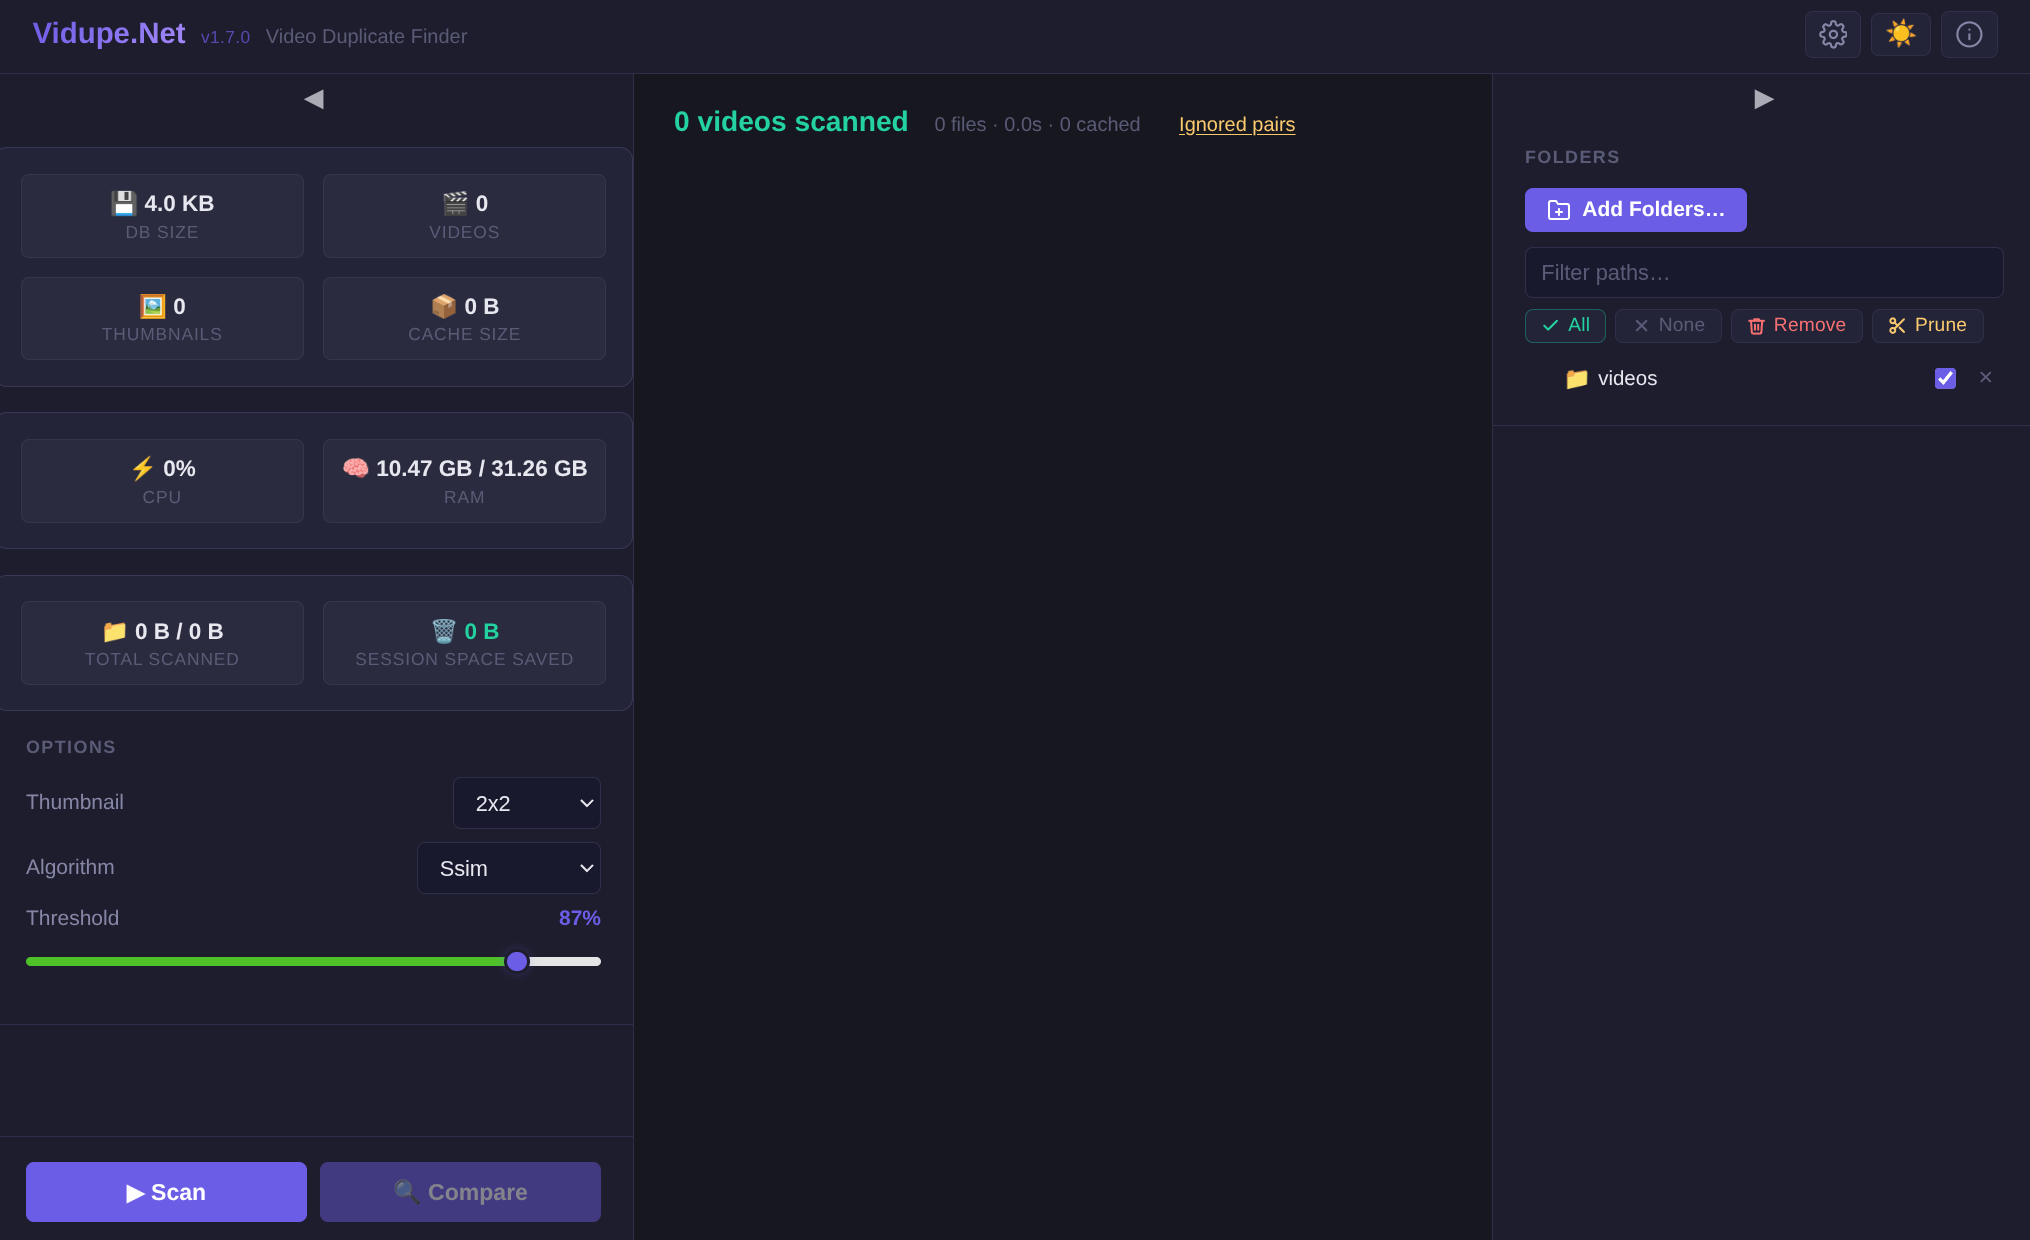
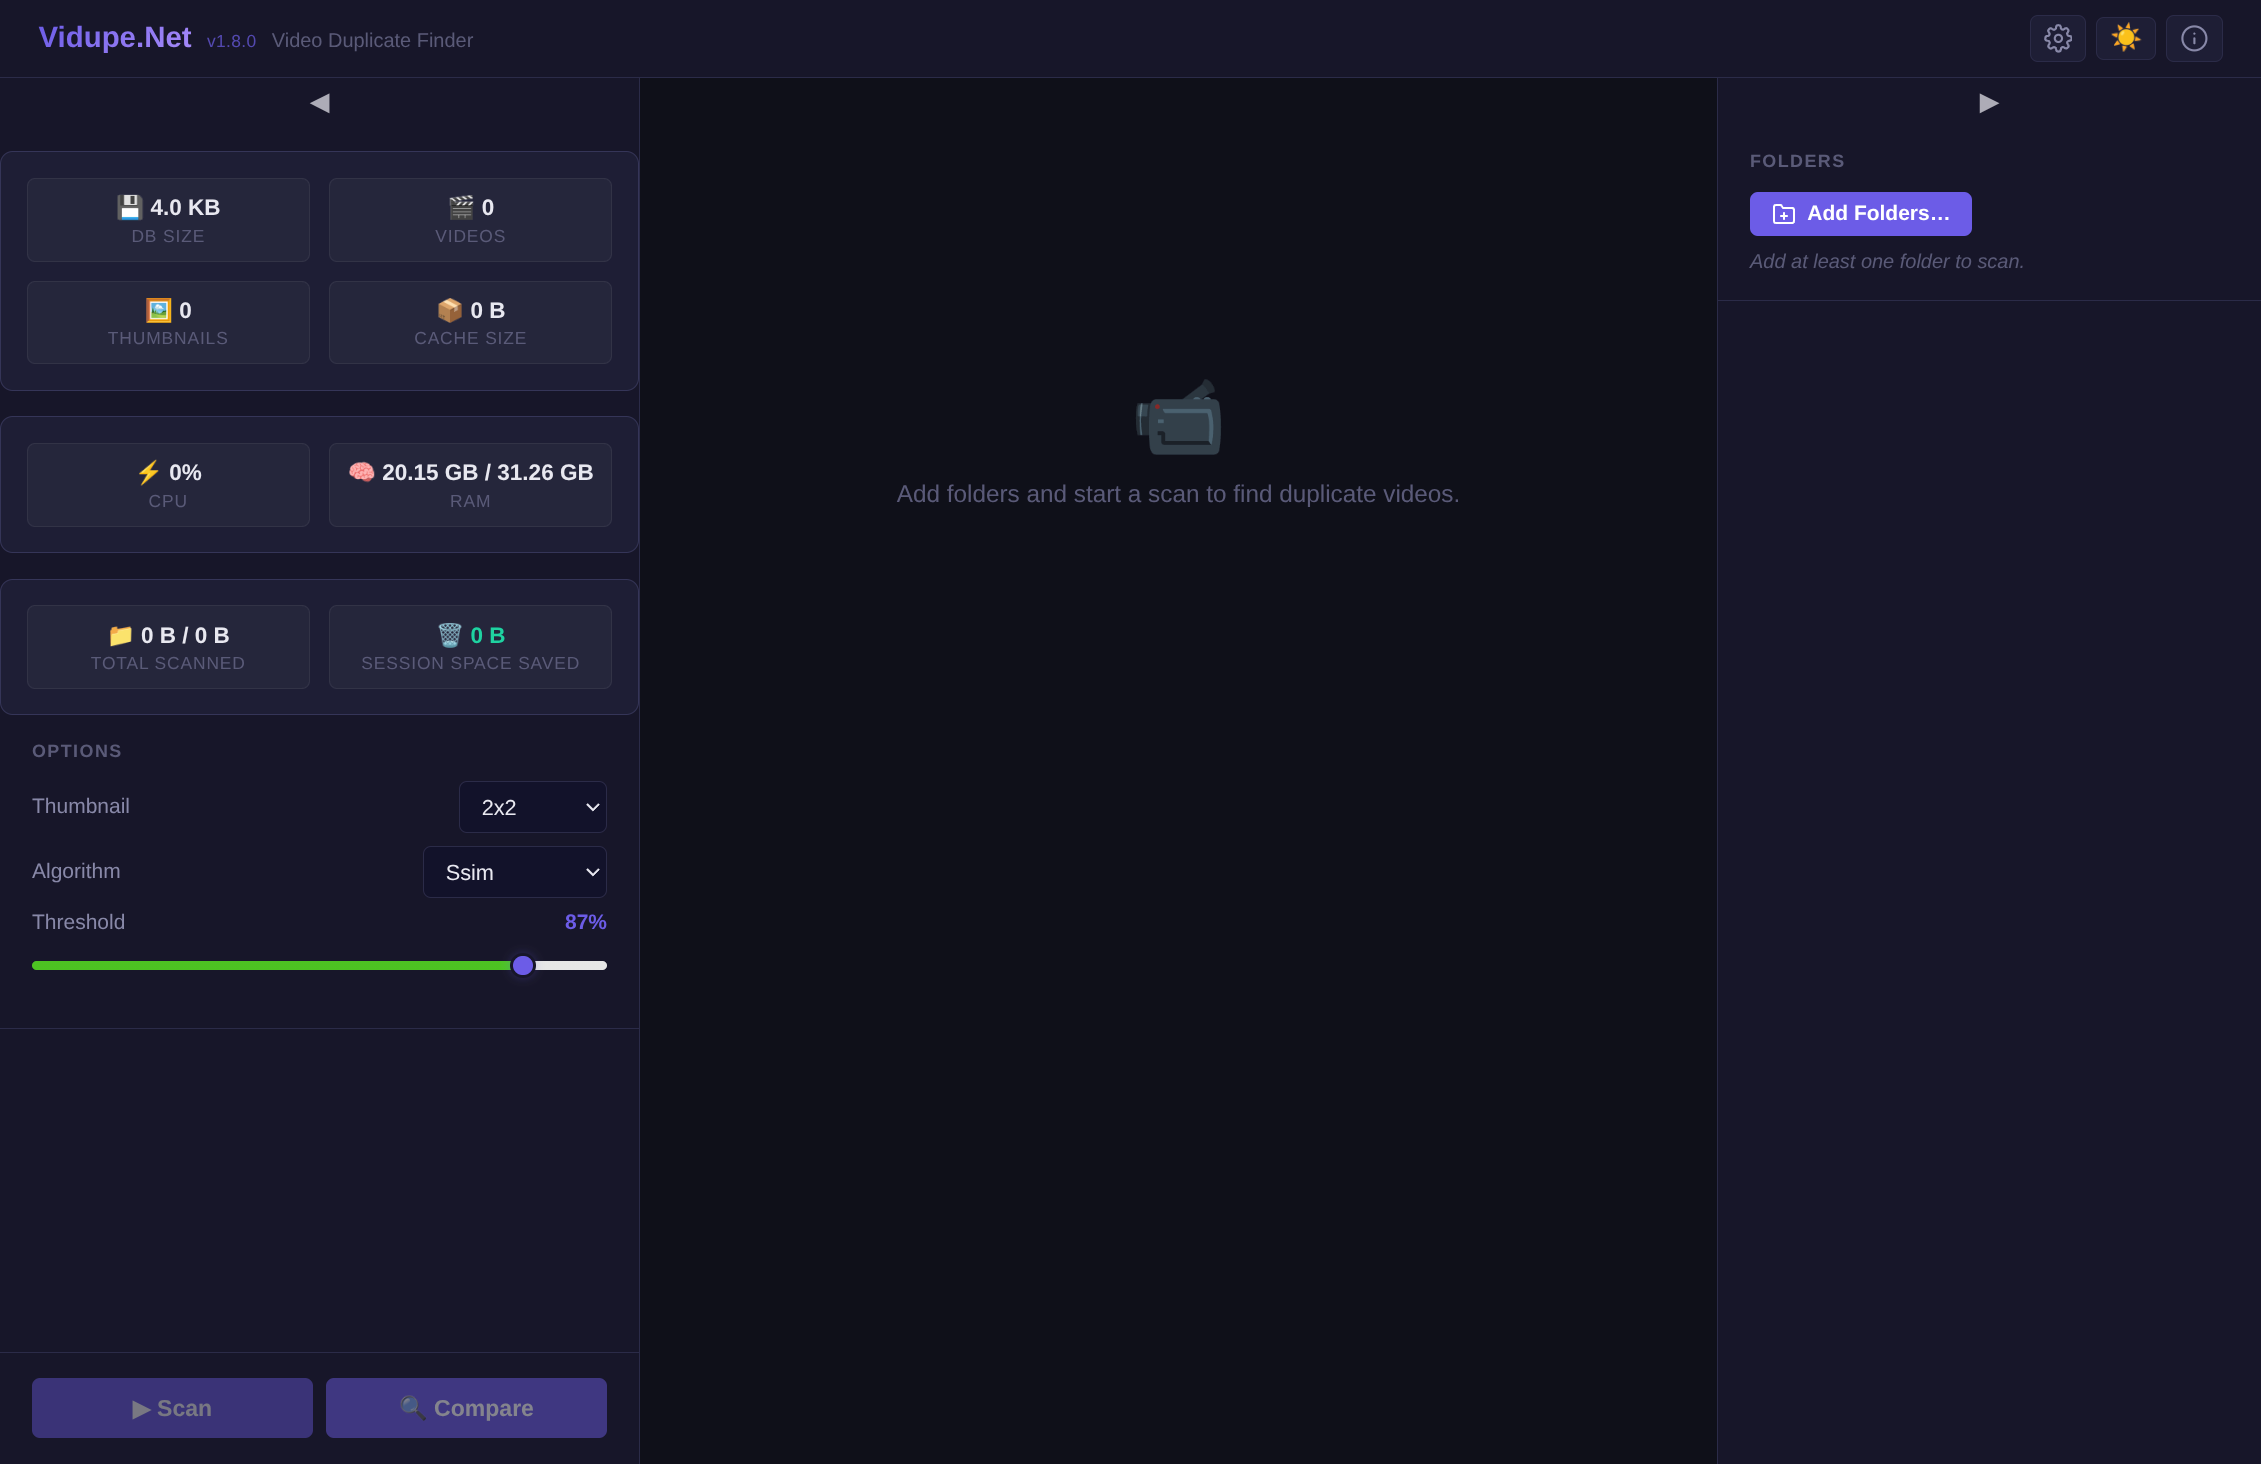
Update README to version 1.8.0 and enhance Quick Start Guide with detailed workflow and images

diff --git a/docs/QUICKSTART.md b/docs/QUICKSTART.md
@@ -1,0 +1,176 @@
+# VidupeDotNet — Quick Start Guide
+
+**VidupeDotNet** finds near-duplicate video files. Open it in a browser, scan your library, review matches, and delete what you don't need.
+
+---
+
+## The Workflow at a Glance
+
+```
+Add Folders → Scan → Compare → Review & Delete
+```
+
+---
+
+## Step 1 — Add Folders
+
+![Added folder path](./images/01-added_folder_path.png)
+
+Click **Add Folders…** in the top-right panel to open the folder browser and pick one or more directories.
+
+Each folder appears in the tree with a **checkbox** next to it. Only checked folders are included in the next scan and comparison.
+
+- **All** — check every folder at once
+- **None** — uncheck all
+- **Remove** — permanently remove a folder from the list
+- **Prune** — remove folders that no longer exist on disk
+
+---
+
+## Step 2 — Configure Options (Left Sidebar)
+
+Before scanning, set your options in the **OPTIONS** section of the left sidebar:
+
+| Option | What it does |
+|--------|-------------|
+| **Thumbnail** | Frame capture grid — `1x1` (1 frame) to `4x4` (16 frames). More frames = more accurate but slower. |
+| **Algorithm** | Similarity algorithm used for comparison (see table below). |
+| **Threshold** | Minimum similarity score (%) for a pair to be reported as a duplicate. |
+
+### Algorithms (ordered by accuracy)
+
+| Algorithm | Type | GPU benefit |
+|-----------|------|------------|
+| CLIP | Semantic (neural network) | Recommended |
+| LPIPS | Deep perceptual (neural network) | Recommended |
+| SSIM | Structural similarity | Yes |
+| pHash | Perceptual hash | Yes |
+| dHash | Difference hash | Minimal |
+| Histogram | Colour histogram | No |
+| MSE | Mean squared error | No |
+
+> Use **SSIM** or **pHash** as a good default. Use **CLIP** or **LPIPS** for the most accurate results when a GPU is available.
+
+---
+
+## Step 3 — Scan
+
+![Scanning in progress](./images/02-scanning.png)
+
+Click **▶ Scan**. The app will:
+
+1. Discover all video files in checked folders
+2. Extract metadata (duration, resolution, codec, bitrate)
+3. Capture frames and store lossless WebP thumbnails
+
+A progress bar shows the current phase, file count, and ETA. Click **Cancel** to stop early. Already-scanned files are cached and skipped on subsequent scans.
+
+---
+
+## Step 4 — Review Scan Results
+
+![Finished scanning](./images/03-finished_scanning.png)
+
+When the scan completes, the header shows a summary: *"5 videos scanned · 5 files · 133.0s · 0 cached"*.
+
+The left sidebar updates with live stats:
+
+| Stat | Meaning |
+|------|---------|
+| **DB Size** | SQLite database size on disk |
+| **Videos** | Total cached videos |
+| **Thumbnails** | Captured frames stored |
+| **Cache Size** | Thumbnail storage used |
+| **Total Scanned** | Cumulative data volume processed |
+
+At the bottom of the sidebar, a **pair estimate** shows the approximate number of pairs to compare and the expected thumbnail memory range.
+
+---
+
+## Step 5 — Compare
+
+Click **◉ Compare**. The app scores all video pairs using the selected algorithm and threshold, then presents the results.
+
+---
+
+## Step 6 — Review Duplicates
+
+![Comparison results](./images/04-comparing.png)
+
+Each result card shows:
+
+- **Similarity score** and the algorithm used (e.g. *68.8% via PHash*)
+- Side-by-side **thumbnail grids** for both videos
+- A **metadata table** comparing file size, duration, resolution, bitrate, frame rate, codec, and audio
+- Highlighted cells in **blue** indicate the better value for each attribute
+
+### Actions
+
+| Button | What it does |
+|--------|-------------|
+| **Delete** (per video) | Send that file to the system trash |
+| **Swap names** | Exchange the filenames of the two videos |
+| **Ignore pair** | Dismiss this pair — it won't reappear |
+| **Delete Both** | Send both files to the system trash |
+
+Use **← Prev** / **Next →** to navigate between duplicate pairs.
+
+> The legend at the bottom of the card uses colour to indicate which video is **Better**, **Equivalent**, or **Worse** for each attribute.
+
+---
+
+## Advanced Settings
+
+![Advanced Settings](./images/settings.png)
+
+Open the **⚙ Settings** dialog from the top-right header icon.
+
+### Computation
+
+| Setting | Description |
+|---------|-------------|
+| **GPU Acceleration** | Toggle CUDA/OpenCL for supported algorithms. Disabled automatically when no hardware GPU is detected. |
+| **SSIM Block Size** | Tile size for SSIM computation (8, 16, 32). Smaller = more accurate, slower. |
+
+### Comparison Filters
+
+| Setting | Description |
+|---------|-------------|
+| **pHash Pre-filter** | Fast O(1) rejection of dissimilar pairs before the main algorithm runs. Tune the **Min. Similarity** slider to trade thoroughness for speed. |
+| **Quick Match Filter** | Apply the algorithm threshold during comparison rather than at display time, reducing memory usage. |
+| **Same-Folder Compare** | Only compare videos within the same configured folder. |
+| **Detect Mirrored** | Detect horizontally flipped duplicates (e.g. front-camera re-uploads). |
+
+### Duration Modifiers
+
+Expand this section to configure how duration differences affect matching (e.g. to tolerate trimmed or re-encoded versions).
+
+### Display & Storage
+
+| Setting | Description |
+|---------|-------------|
+| **Full-Size Thumbnails** | Load original-resolution frames instead of preview-size crops when reviewing pairs. |
+| **Suppress Re-compare Warnings** | Silence the alert shown after a new scan when existing comparison data may be stale. |
+
+### Maintenance
+
+| Button | Description |
+|--------|-------------|
+| **Clear Cache** | Delete all stored thumbnails and hashes (requires a full rescan). |
+| **Reset Settings** | Restore all settings to their defaults. |
+| **Compact DB** | Run SQLite `VACUUM` to reclaim disk space. |
+| **Clean Full-Size DB** | Remove full-size thumbnail cache entries. |
+
+---
+
+## About
+
+![About dialog](./images/about.png)
+
+Click the **ⓘ** icon in the top-right corner to open the About dialog. It shows:
+
+- Current version
+- Technology stack (.NET 10, Blazor Server, FFmpeg, SkiaSharp, ILGPU, ONNX Runtime, SQLite)
+- System information (CPU cores, RAM, OS, .NET runtime)
+- GPU devices detected (or "No hardware GPU detected — using CPU fallback")
+- Links to Source Code and Docker Hub

diff --git a/README.md b/README.md
@@ -3,20 +3,22 @@
 ![License](https://img.shields.io/badge/license-GPL--3.0-blue.svg)
 ![Platform](https://img.shields.io/badge/platform-.NET%2010%2B-purple.svg)
 ![Status](https://img.shields.io/badge/status-Active-success.svg)
-![Version](https://img.shields.io/badge/version-1.7.0-informational.svg)
+![Version](https://img.shields.io/badge/version-1.8.0-informational.svg)
 [![Docker Hub](https://img.shields.io/docker/pulls/gafda/vidupe-net.svg)](https://hub.docker.com/r/gafda/vidupe-net)
-
-![main](./docs/images/main.png)
 
 **VidupeDotNet** is a modern, high-performance video deduplication utility built on .NET 10 and Blazor Server. It identifies duplicate or near-duplicate video files using 7 comparison algorithms — CLIP, LPIPS, SSIM, pHash, dHash, Histogram, and MSE — with optional GPU acceleration.
 
+![main](./docs/images/main.png)
+
 > 📦 **Docker image available on Docker Hub:** [hub.docker.com/r/gafda/vidupe-net](https://hub.docker.com/r/gafda/vidupe-net)
+>
+> 📖 **New to VidupeDotNet?** See the [Quick Start Guide](./docs/QUICKSTART.md) for a step-by-step walkthrough with screenshots.
 
 ---
 
 ## Features
 
-- **7 Comparison Algorithms:** CLIP (semantic), LPIPS (deep perceptual), SSIM, pHash, dHash, Histogram, MSE — ordered by accuracy. Custom mode combines any algorithms. GPU-recommended warning for neural-network algorithms.
+- **7 Comparison Algorithms:** CLIP, LPIPS, SSIM, pHash, dHash, Histogram, MSE — ordered by accuracy. Custom mode combines any algorithms.
 - **GPU Acceleration:** Optional CUDA/OpenCL acceleration with automatic CPU fallback.
 - **Selective Folder Scanning:** Catalog all folders but scan/compare only those you check. Uncheck folders to exclude them without removing them.
 - **Collapsible Folder Tree:** Folder paths are presented as a path-compressed tree with tri-state parent checkboxes, tree connector lines, and aggregate video counts.
@@ -24,7 +26,8 @@
 - **High Performance:** Multi-core async processing for fast scanning of large libraries.
 - **Deep Scanning:** Configurable frame capture positions (1×1 through 4×4 grids, cut-ends mode, others) for thorough visual comparison.
 - **Mirrored Video Detection:** Detects horizontally flipped duplicates (e.g. front-camera recordings).
-- **Video Summary Pre-filter:** Optional majority-vote pHash per video for O(1) pair rejection, reducing comparison time and RAM for large collections.
+- **Video Summary Pre-filter:** Optional per-video pHash summary for fast pair rejection, reducing comparison time and RAM for large collections.
+- **pHash Pre-filter:** Optional per-position pHash pre-filter with configurable threshold rejects dissimilar pairs before the selected algorithm runs, trading thoroughness for speed.
 - **Lossless WebP Thumbnails:** Captured frames are stored as lossless WebP for 100% faithful pixel reproduction.
 - **Retry Failed Scans:** One-click retry for all files that failed during scanning.
 - **Re-compare Warnings:** Alerts when comparison data may be stale after a new scan, with optional suppression.
@@ -45,7 +48,7 @@ The recommended way to run VidupeDotNet is via the pre-built Docker image on [Do
 - [Docker](https://docs.docker.com/get-docker/) or [Podman](https://podman.io/getting-started/installation)
 - FFmpeg is bundled in the image — no separate installation needed
 - Optional: NVIDIA GPU + drivers on the host for GPU-accelerated algorithms (pHash, SSIM)
-- Optional: CUDA Toolkit 12.x + cuDNN 9.x on the host for neural-network GPU acceleration (CLIP, LPIPS) — see [GPU Setup](#gpu-setup)
+- Optional: CUDA Toolkit 12.x + cuDNN 9.x on the host for GPU acceleration of CLIP and LPIPS — see [GPU Setup](#gpu-setup)
 
 ### Quick Start
 
@@ -72,10 +75,10 @@ Then open your browser at `http://localhost:8080`.
 
 | Tag | Architecture | Description |
 |-----|-------------|-------------|
-| `latest` | x64 | Latest stable release |
-| `latest-arm64` | ARM64 | Latest stable release for ARM64 devices |
-| `1.7.0` | x64 | Specific version |
-| `1.7.0-arm64` | ARM64 | Raspberry Pi 4/5 and other ARM64 devices |
+| `latest` | amd64 + arm64 | Latest stable release |
+| `1.8.0` | amd64 + arm64 | Specific version |
+
+Both tags are multi-arch manifest lists — Docker and Podman automatically pull the correct image for your host architecture.
 
 ---
 
@@ -111,7 +114,7 @@ VidupeDotNet has two independent GPU acceleration paths. Both are optional — t
 | **CUDA/OpenCL** | pHash, SSIM | NVIDIA/AMD GPU + drivers |
 | **ONNX CUDA** | CLIP, LPIPS | NVIDIA GPU + CUDA Toolkit 12.x + cuDNN 9.x |
 
-The NVIDIA driver alone is **not sufficient** for ONNX CUDA acceleration. You must also install the CUDA Toolkit libraries on the **host machine**:
+The NVIDIA driver alone is **not sufficient** for CLIP and LPIPS GPU acceleration. You must also install the CUDA Toolkit libraries on the **host machine**:
 
 ```bash
 # Fedora / RHEL / Bazzite
@@ -121,7 +124,7 @@ sudo dnf install cuda-cudart-12-6 libcublas-12-6 libcufft-12-6 libcurand-12-6 li
 sudo apt install cuda-toolkit-12-6 libcudnn9-cuda-12
 ```
 
-If CUDA libraries are missing, CLIP and LPIPS will fall back to CPU automatically with a warning in the logs.
+If CUDA libraries are missing, CLIP and LPIPS fall back to CPU automatically with a warning in the logs.
 
 ---
 
@@ -221,10 +224,10 @@ docker run -d \
   -p 8080:8080 \
   -v /path/to/your/videos:/videos:ro \
   -v vidupe-data:/data \
-  gafda/vidupe-net:1.7.0-arm64
+  gafda/vidupe-net:1.8.0
 ```
 
-> Note: Neural-network algorithms (CLIP, LPIPS) will run on CPU on ARM64 as ONNX CUDA is not supported on this architecture.
+> Note: CLIP and LPIPS run on CPU on ARM64 as ONNX CUDA is not supported on this architecture.
 
 ---
 
